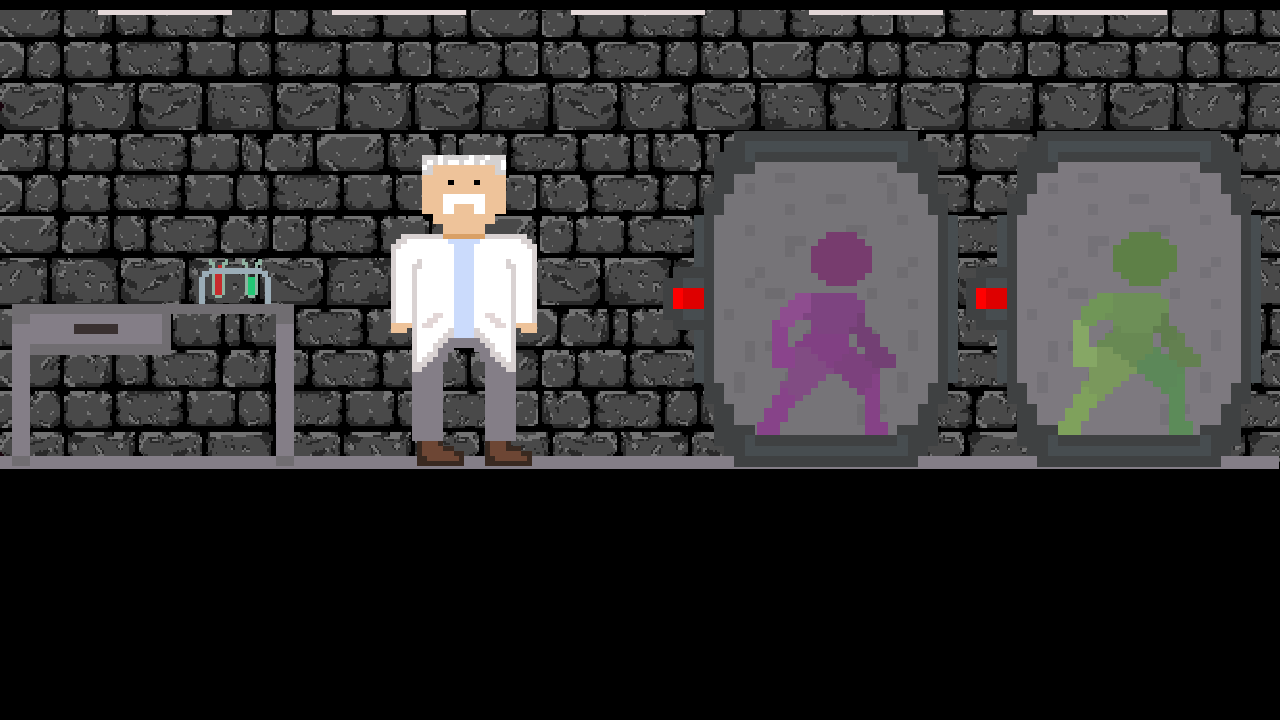
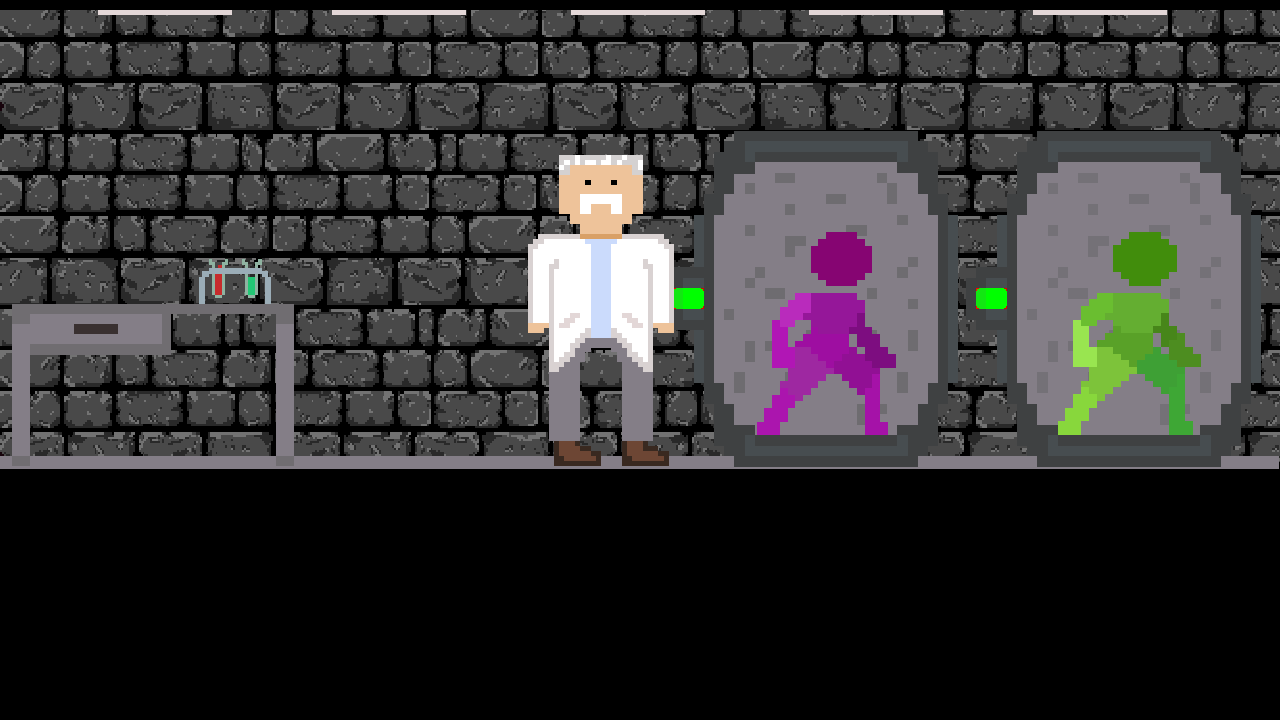
somewhat finished with story mode but the scenes and the text needs some polishing

diff --git a/Story_Class.py b/Story_Class.py
@@ -5,12 +5,15 @@ pygame.init()
 
 class Story:
     def __init__(self, font):
-        self.scene0 = pygame.image.load("Assets\Story\scene1 1280x720.png")
-        self.scene1 = pygame.image.load("Assets\Story\scene2 1280x720.png")
+        self.scene0 = pygame.image.load("Assets\Story\scene0 1280x720.png")
+        self.scene1 = pygame.image.load("Assets\Story\scene1 1280x720.png")
+        self.scene2 = pygame.image.load("Assets\Story\scene2 1280x720.png")
 
-        self.scenes = [self.scene0, self.scene1]
+        self.scenes = [self.scene0, self.scene1, self.scene2]
 
         self.nextscenetext = font.render("Press enter to continue...", True, (150, 150, 150))
+
+        self.backtomenutext = font.render("Press enter to go back to menu...", True, (150, 150, 150))
 
         self.nextscene = False
 
@@ -18,16 +21,22 @@ class Story:
         self.fadeopacity = 0
         self.halffadecomplete = False
 
+        self.doctortext = font.render("Doctor:", True, (200, 200, 200))
 
-        self.textforscene0 = ["Finally! After years of work I made them, I did it!",
+        self.textforscene0 = ["Finally! After years of work, I made them",
                               "I made the first humanoids, not just one but two of them",
-                              "Now, I just have to test their intelligence somehow.", 
-                              "I can finally use the underground facility which i built for this day."]
-        
-        self.textforcene1 = []
+                              "What a good start to this year", 
+                              "I will finally be able to use the underground facility that I spent years on"]
 
         self.textscene0 = Typewriter_Text((50, 550), (900, 670), 1, None, self.textforscene0, False)
-        self.doctortext = font.render("Doctor:", True, (200, 200, 200))
+        
+        self.textforscene1 = ["Time to take them to the facility so i can test their intelligence"]
+
+        self.textscene1 = Typewriter_Text((50, 550), (900, 670), 1, None, self.textforscene1, False)
+
+        self.textforscene2 = ["Now, I will just leave them here and see if whether they are able to escape or not"]
+
+        self.textscene2 = Typewriter_Text((50, 550), (900, 670), 1, None, self.textforscene2, False)
 
         self.currentscene = 0
 
@@ -58,8 +67,18 @@ class Story:
                 if self.fadeopacity == 255:
                     self.halffadecomplete = True
             elif self.halffadecomplete == True:
+
+                if self.currentscene == 0 and self.textscene0.fullydisplayedtexts == True:
+                    self.currentscene = 1
+                elif self.currentscene == 1 and self.textscene1.fullydisplayedtexts == True:
+                    self.currentscene = 2
+
                 if self.fadeopacity > 0:
                     self.fadeopacity -= 5
+
+                if self.fadeopacity == 0:
+                    self.halffadecomplete = False
+                    self.nextscene = False
 
             self.fadesurface.set_alpha(self.fadeopacity)
 

diff --git a/test.py b/test.py
@@ -778,20 +778,29 @@ while game.on == True:
            
 
             if story.currentscene == 0:
-                    screen.blit(story.doctortext, (50, 500))
-                    story.textscene0.DrawAndUpdate(screen, deltatime)
+                screen.blit(story.doctortext, (50, 500))
+                story.textscene0.DrawAndUpdate(screen, deltatime)
 
-                    story.Fade(screen)
-                    if story.halffadecomplete == True:
-                        story.currentscene += 1
+                story.Fade(screen)
 
-                    if story.textscene0.fullydisplayedtexts:
-                        screen.blit(story.nextscenetext, (900, 670))
+                if story.textscene0.fullydisplayedtexts:
+                    screen.blit(story.nextscenetext, (900, 670))
 
             if story.currentscene == 1:
                 screen.blit(story.doctortext, (50, 500))
+                story.textscene1.DrawAndUpdate(screen, deltatime)
 
                 story.Fade(screen)
+                
+                if story.textscene1.fullydisplayedtexts:
+                    screen.blit(story.nextscenetext, (900, 670))
+
+            if story.currentscene == 2:
+                screen.blit(story.doctortext, (50, 500))
+                story.textscene2.DrawAndUpdate(screen, deltatime)
+
+                if story.textscene2.fullydisplayedtexts:
+                    screen.blit(story.backtomenutext, (850, 670))
 
 
 
@@ -807,17 +816,31 @@ while game.on == True:
 
         for event in pygame.event.get():
             if story.intro == False:
+
                 if story.currentscene == 0:
                     story.textscene0.NextText(event)
+                elif story.currentscene == 1:
+                    story.textscene1.NextText(event)
+                
 
             if(story.intro):
                 story.ContinueFromIntro(event)
 
             else:
 
-                if story.currentscene == 0 and story.textscene0.fullydisplayedtexts == True:
-                    if event.key == pygame.K_RETURN:
-                        story.nextscene = True
+                if event.type == pygame.KEYDOWN:
+
+                    if story.currentscene == 0 and story.textscene0.fullydisplayedtexts == True:
+                        if event.key == pygame.K_RETURN:
+                            story.nextscene = True
+                    
+                    elif story.currentscene == 1 and story.textscene1.fullydisplayedtexts == True:
+                        if event.key == pygame.K_RETURN:
+                            story.nextscene = True
+                    
+                    elif story.currentscene == 2 and story.textscene2.fullydisplayedtexts == True:
+                        if event.key == pygame.K_RETURN:
+                            game.mode = "menu"
                         
 
 
